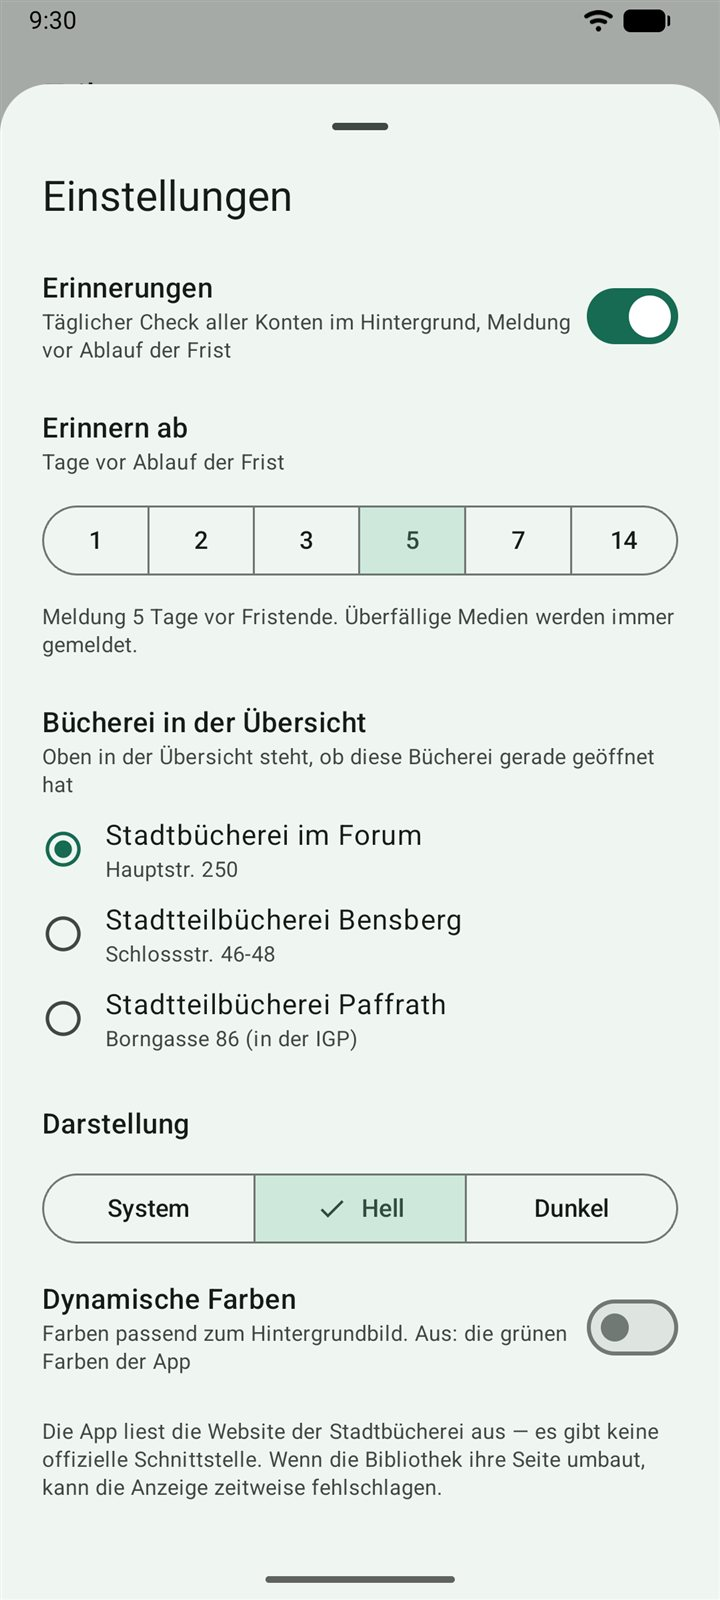
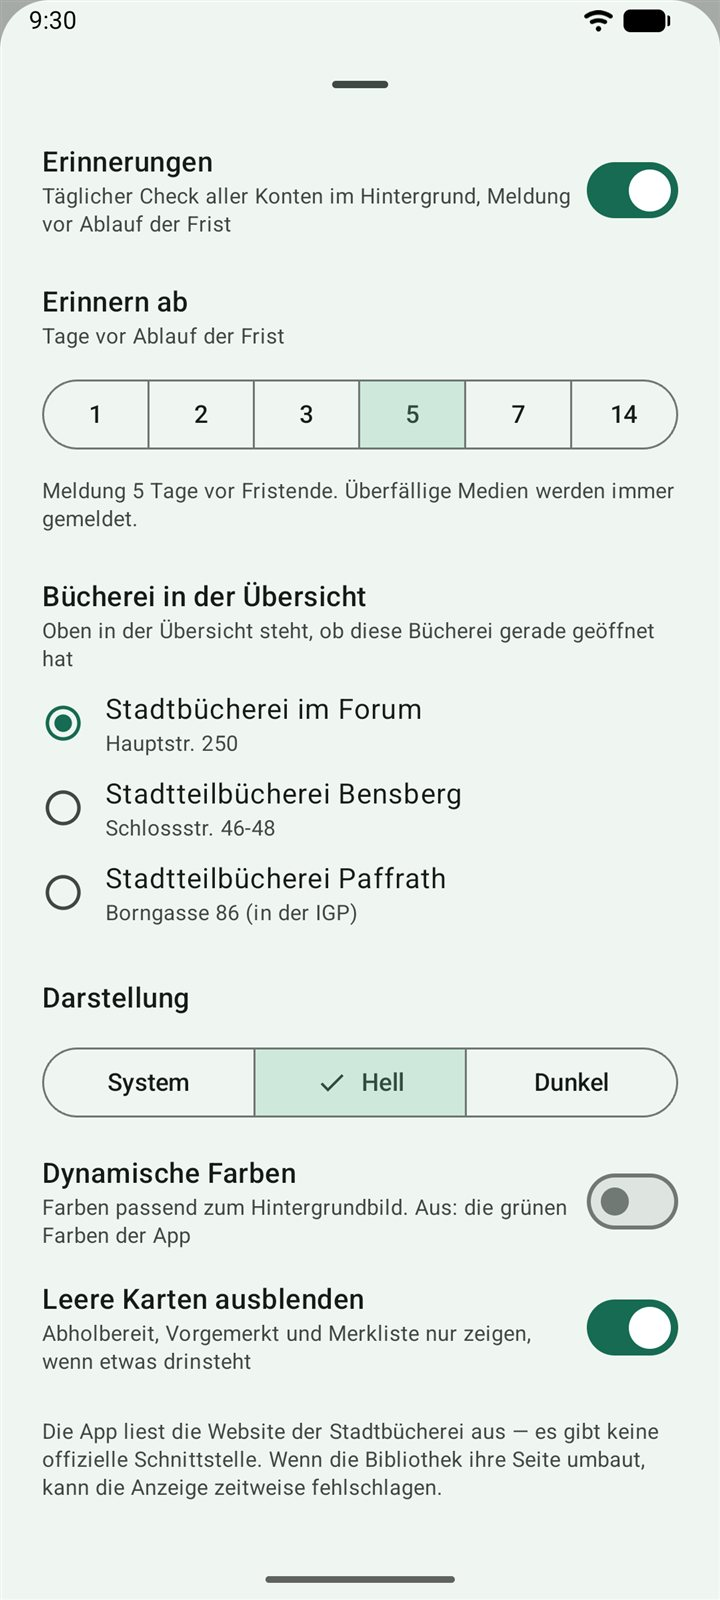
Release 1.10.1
- Neue Uebersicht mit Hero fuer die naechste Rueckgabe
- Oeffnungsstatus als Etikett, Oeffnungszeiten aufgeraeumt
- Einstellung "Leere Karten ausblenden"
- Schrift nach Material 3 Expressive
- Neue README-Screenshots (anonymisierte Testdaten)

diff --git a/CHANGELOG.md b/CHANGELOG.md
@@ -7,6 +7,25 @@ Versionen nur zwei Stellen, ab 1.8.1 immer drei.
 
 ## [Unreleased]
 
+## [1.10.1] - 2026-10-19
+
+### Neu
+- Einstellung „Leere Karten ausblenden“ (Standard an): ausgeschaltet zeigt die
+  App Abholbereit, Vorgemerkt und Merkliste auch dann, wenn sie leer sind.
+
+### Geändert
+- Übersicht neu aufgebaut: die nächste Rückgabe steht groß in einem eigenen,
+  farbig getönten Feld; Anzahl der Ausleihen und offene Gebühren stehen
+  klein in einer Zeile darunter.
+- Öffnungsstatus als farbiges Etikett mit der nächsten Öffnung daneben
+  („● Geschlossen  Öffnet heute 12:00“) – kürzer und ohne Umbruch mitten im Satz.
+- Öffnungszeiten: geteilte Zeiten (Paffrath) stehen untereinander, der heutige
+  Tag ist samt Zeiten hervorgehoben.
+- Schrift nach Material 3 Expressive: Hervorhebungen nutzen die betonten
+  Schriftstile.
+- Leere Karten starten zugeklappt.
+- Neue Screenshots in der README.
+
 ## [1.10.0] - 2026-10-19
 
 ### Neu
@@ -118,7 +137,8 @@ Erste veröffentlichte Version.
 - Mehrere Ausweise mit Konto-Umschalter.
 - Erinnerungen vor Fristende und Warnung vor Ausweisablauf.
 
-[Unreleased]: https://github.com/klggr81/Stadtbuecherei-GL-App/compare/v1.10.0...HEAD
+[Unreleased]: https://github.com/klggr81/Stadtbuecherei-GL-App/compare/v1.10.1...HEAD
+[1.10.1]: https://github.com/klggr81/Stadtbuecherei-GL-App/compare/v1.10.0...v1.10.1
 [1.10.0]: https://github.com/klggr81/Stadtbuecherei-GL-App/compare/v1.9.1...v1.10.0
 [1.9.1]: https://github.com/klggr81/Stadtbuecherei-GL-App/compare/v1.9.0...v1.9.1
 [1.9.0]: https://github.com/klggr81/Stadtbuecherei-GL-App/compare/v1.8.2...v1.9.0

diff --git a/README.md b/README.md
@@ -69,7 +69,7 @@ Versionen sollten funktionieren, sind aber nicht ausprobiert.
 | **Merkliste** | Gemerkte Titel (bis zu 20, bei mehr ein Hinweis mit Link zur Website), Antippen öffnet die Detailseite, Entfernen per Lesezeichen-Symbol |
 | **Ausweis** | Eigene Karte mit Gültig-bis-Datum unter der Ausweisnummer, Warnung in der Übersicht ab 60 Tagen vor Ablauf, Benachrichtigung 30, 14 und 7 Tage vorher sowie am Ablauftag |
 | **Öffnungszeiten** | Zeiten aller drei Standorte; oben in der Übersicht, ob die gewählte Bücherei (Einstellungen, Standard: Forum) gerade geöffnet hat und bis wann (bestimmt beim Öffnen der App, gesetzliche Feiertage in NRW berücksichtigt). Die Karte nennt, auf welchem Stand die Zeiten sind |
-| **Aufklappbare Karten** | Jeder Bereich lässt sich auf- und zuklappen, die App merkt sich die Auswahl |
+| **Aufklappbare Karten** | Jeder Bereich lässt sich auf- und zuklappen, die App merkt sich die Auswahl. Leere Karten (Abholbereit, Vorgemerkt, Merkliste) werden ausgeblendet – abschaltbar in den Einstellungen |
 | **Erinnerungen** | Täglicher Hintergrund-Check, Benachrichtigung einstellbar: 1–14 Tage vor Fristende. Alle Meldungen kommen frühestens um 9 Uhr, nie nachts |
 | **Darstellung** | Hell, Dunkel oder wie das System; ab Android 12 wahlweise mit den Farben des Hintergrundbilds oder den eigenen grünen Farben der App |
 | **Mehrere Ausweise** | Konto-Umschalter in der Titelleiste, jedes Konto mit eigener Vorschau und eigenen Erinnerungen |
